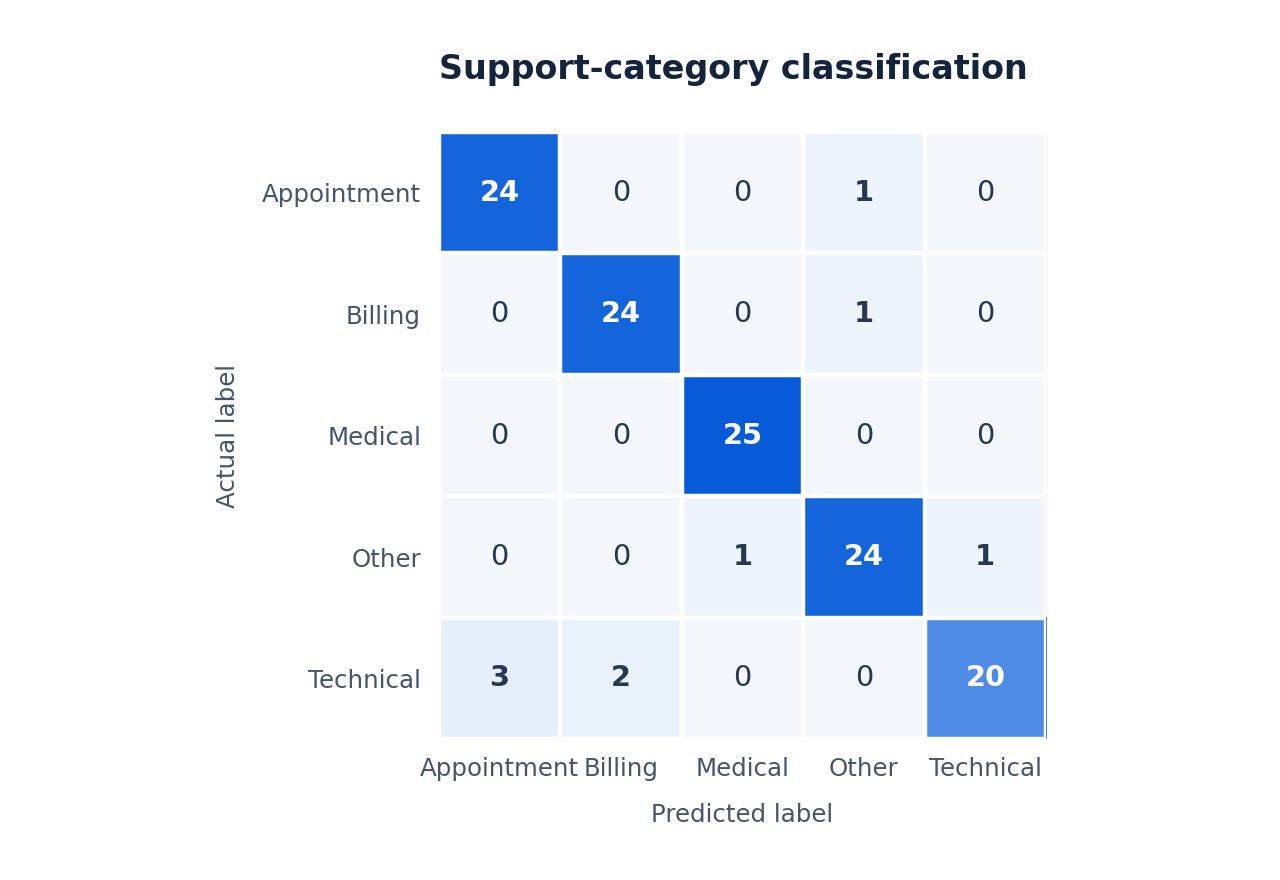
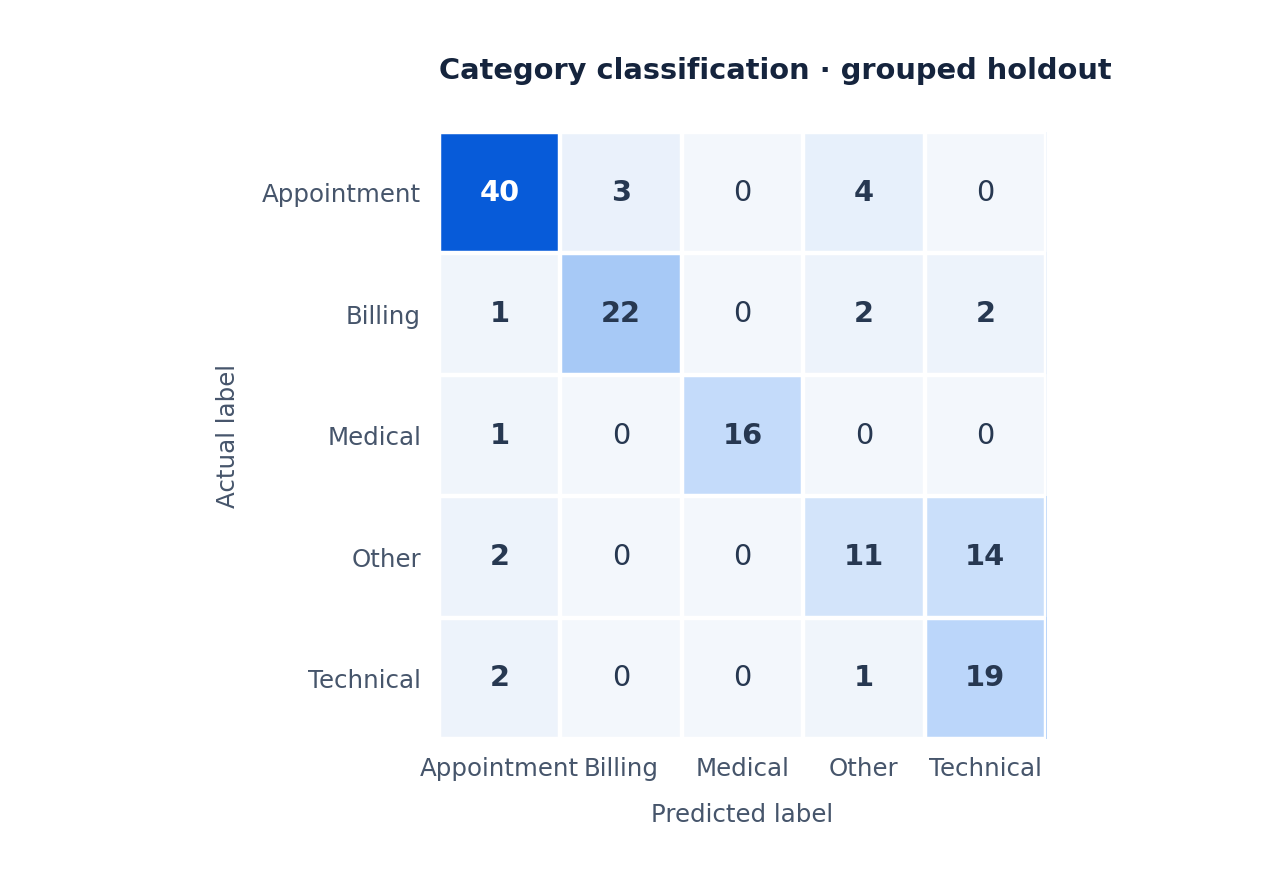
Publish corrected shared-holdout NLP results and API behaviour

diff --git a/diacare-nlp.html b/diacare-nlp.html
@@ -37,32 +37,33 @@
       <section class="report-section" aria-labelledby="approach">
         <h2 id="approach"><span class="section-number" aria-hidden="true">02</span>How I built it</h2>
         <ol class="approach-list">
-          <li><strong>Represent the message text.</strong> Convert words and two-word phrases into TF-IDF features, capped at 20,000. Keep the vectoriser inside each model pipeline so outer cross-validation folds fit their own vocabulary.</li>
-          <li><strong>Learn category and priority separately.</strong> Train linear SVM classifiers with sigmoid probability calibration; apply balanced class weights to priority. Each target uses its own stratified 20% holdout and five-fold cross-validation on its remaining training pool, with seed 42.</li>
-          <li><strong>Expose a reviewable response.</strong> Check a short list of keyword patterns before model inference. A match returns category “medical” and priority 5; otherwise, the API returns both model predictions and indicative terms. A health endpoint reports whether the model artifacts loaded.</li>
+          <li><strong>Represent the message text.</strong> Convert words and two-word phrases into TF-IDF features, capped at 20,000. Each classifier uses a pipeline that learns its TF-IDF vocabulary within the training folds, preventing vocabulary leakage into the held-out folds.</li>
+          <li><strong>Learn category and priority separately.</strong> Train linear SVM classifiers with balanced priority weights. Group duplicate and related messages into 84 reviewed families, then reserve one shared holdout of 140 messages from 17 families. Train on the remaining 490 messages from 67 families; fit sigmoid calibration using three family-disjoint training folds.</li>
+          <li><strong>Expose a reviewable response.</strong> Check a short list of keyword patterns before model inference. A match returns category “medical” and priority 5; otherwise, the API returns both model predictions and indicative terms. A readiness endpoint returns HTTP 503 if either model is unavailable.</li>
         </ol>
         <h3 class="report-subheading">Engineering decisions</h3>
         <p>Separate classifiers let topic and priority be evaluated independently instead of assuming that a message’s subject determines its urgency. The keyword override is visible in the response through a <code>gate_triggered</code> field, so a reviewer can distinguish a rule match from model output.</p>
-        <p>Model loading is checked separately from the service being reachable: the health response includes <code>models_loaded</code>, and requests without available models return an explicit error rather than a fabricated prediction. Indicative terms support inspection, while the full prediction and rule status remain available in the JSON response.</p>
+        <p>Process liveness and readiness are separate: <code>/health</code> reports <code>models_loaded</code>, while <code>/ready</code> and prediction requests return HTTP 503 when models are unavailable. Model responses expose separate category and priority confidence fields; rule responses identify the matched phrases and leave both confidence fields empty.</p>
       </section>
       <section class="report-section" aria-labelledby="results">
         <h2 id="results"><span class="section-number" aria-hidden="true">03</span>Results</h2>
-        <p>The category model correctly labelled <strong>117 of 126 holdout messages (92.9%)</strong>; the priority model correctly labelled <strong>101 of 126 (80.2%)</strong> on its separately sampled holdout. These are individual model results, not the accuracy of getting both answers right on the same messages or of the combined keyword-and-model API.</p>
-        <p>Priority classification made more errors than category classification. Six of seven priority-5 examples were classified correctly, with one assigned priority 4; that small sample cannot establish reliable handling of rare urgent messages.</p>
-        <table class="results-table"><caption>Separate synthetic holdouts · 126 messages per target</caption><thead><tr><th scope="col">Measure</th><th scope="col">Category</th><th scope="col">Priority</th></tr></thead><tbody><tr><th scope="row">Correct labels</th><td>117 / 126</td><td>101 / 126</td></tr><tr><th scope="row">Macro F1</th><td>0.927</td><td>0.808</td></tr><tr><th scope="row">Accuracy</th><td>92.9%</td><td>80.2%</td></tr></tbody></table>
-        <figure class="report"><a href="nlp-assets/priority-confusion-matrix.png" aria-label="Enlarge priority classification confusion matrix"><img src="nlp-assets/priority-confusion-matrix.png" width="1280" height="880" alt="Priority model holdout confusion matrix: 16, 36, 29, 14 and 6 correct predictions for priorities 1 to 5, with one actual priority-5 message classified as priority 4" loading="lazy" decoding="async"></a><figcaption><h3>Figure 1. Priority classification errors</h3><p>Generated from the published evaluation counts. Rows are actual labels and columns are model predictions, before the API keyword override. Select the figure to enlarge.</p></figcaption></figure>
+        <p>On the corrected shared holdout, the models achieved <strong>77.1% category accuracy</strong> and <strong>55.0% priority accuracy</strong>. Both answers were correct on <strong>63 of 140 messages (45.0%)</strong>. The complete API, including keyword overrides, correctly returned both labels on <strong>65 of 140 (46.4%)</strong>.</p>
+        <p><strong>Evaluation correction.</strong> These results replace the preliminary 92.9% and 80.2% figures, whose separate holdouts each contained seven training-overlap messages. The new shared split keeps annotated families and normalised duplicate texts entirely separate.</p>
+        <p>The priority model correctly classified <strong>0 of 11 priority-5 messages</strong>; the API correctly classified <strong>2 of 11</strong>. Its two keyword matches fixed two joint errors on this holdout. These outcomes do not support dependable urgent-message handling.</p>
+        <table class="results-table"><caption>Corrected family-grouped holdout · same 140 messages for both systems</caption><thead><tr><th scope="col">Measure</th><th scope="col">Models only</th><th scope="col">Full API</th></tr></thead><tbody><tr><th scope="row">Category correct</th><td>108 / 140 · 77.1%</td><td>108 / 140 · 77.1%</td></tr><tr><th scope="row">Priority correct</th><td>77 / 140 · 55.0%</td><td>79 / 140 · 56.4%</td></tr><tr><th scope="row">Both labels correct</th><td>63 / 140 · 45.0%</td><td>65 / 140 · 46.4%</td></tr></tbody></table>
+        <figure class="report"><a href="nlp-assets/priority-confusion-matrix.png?v=grouped-2" aria-label="Enlarge priority classification confusion matrix"><img src="nlp-assets/priority-confusion-matrix.png?v=grouped-2" width="1280" height="880" alt="Grouped shared-holdout priority confusion matrix: 2, 53, 19, 3 and 0 correct predictions for priorities 1 to 5; ten priority-5 messages classified as priority 4 and one as priority 2" loading="lazy" decoding="async"></a><figcaption><h3>Figure 1. Priority classification errors</h3><p>Generated from the corrected grouped evaluation. Rows are actual labels; columns are model predictions before the keyword override. Select the figure to enlarge.</p></figcaption></figure>
         <details class="supporting-reports"><summary>Supporting evidence: category errors and API interpretation <span aria-hidden="true">+</span></summary><div class="supporting-content">
-          <figure class="report"><a href="nlp-assets/category-confusion-matrix.png" aria-label="Enlarge category classification confusion matrix"><img src="nlp-assets/category-confusion-matrix.png" width="1280" height="880" alt="Category model holdout confusion matrix: 24 appointment, 24 billing, 25 medical, 24 other and 20 technical-issue messages correctly classified" loading="lazy" decoding="async"></a><figcaption><h3>Figure 2. Support-category classification errors</h3><p>Technical-issue recall was 80%: 20 of 25 examples were correct, with three assigned appointment and two billing. This was the lowest category recall.</p></figcaption></figure>
-          <p class="technology-line">Macro F1 weights classes equally. Five-fold training-pool macro F1 was 0.934 ± 0.033 for category and 0.816 ± 0.022 for priority. These folds share the dataset’s synthetic wording and repetition limits.</p>
-          <p class="technology-line">The API confidence field takes the larger of the two models’ maximum probabilities; it is not joint confidence in both predictions. A keyword match returns a fixed 0.99, not a learned probability. Returned terms use coefficients from one calibrated ensemble member and are indicative, rather than a complete explanation of the ensemble output.</p>
+          <figure class="report"><a href="nlp-assets/category-confusion-matrix.png?v=grouped-2" aria-label="Enlarge category classification confusion matrix"><img src="nlp-assets/category-confusion-matrix.png?v=grouped-2" width="1280" height="880" alt="Grouped shared-holdout category confusion matrix: 40 appointment, 22 billing, 16 medical, 11 other and 19 technical-issue messages correctly classified" loading="lazy" decoding="async"></a><figcaption><h3>Figure 2. Category classification errors</h3><p>The “other” category had the lowest recall: 11 of 27 messages were correct; 14 were assigned technical issue and two appointment.</p></figcaption></figure>
+          <p class="technology-line">Macro F1 weights classes equally: model-only category macro F1 is 0.766 and priority macro F1 is 0.333. The complete API records 0.766 and 0.395 respectively. No new performance cross-validation score is reported; the three grouped folds are for fitting probability calibration.</p>
+          <p class="technology-line">The former maximum-of-two confidence field and fixed 0.99 rule confidence have been removed. Model responses now return <code>category_confidence</code> and <code>priority_confidence</code> separately. Keyword responses identify <code>prediction_source</code> and <code>rule_matches</code>, with both confidences set to null. Calibration alone does not establish probability reliability; that still needs its own evaluation. Indicative terms come from one ensemble member and do not fully explain the ensemble.</p>
         </div></details>
       </section>
       <section class="report-section data-notes" aria-labelledby="data-notes">
         <h2 id="data-notes"><span class="section-number" aria-hidden="true">04</span>Data, limitations &amp; next steps</h2>
-        <p>The category-balanced dataset contains no patient records. Its 630 rows include <strong>613 distinct texts after lowercasing and trimming</strong>; in each target’s split, seven holdout rows repeat text also present in training. The reported scores describe this synthetic experiment, rather than generalisation to unseen patient language or real support traffic.</p>
-        <p>The keyword gate covers a small set of phrases and does not establish clinical safety. This prototype is not a diagnostic or autonomous triage system, and its scores do not measure health outcomes or real-world routing quality.</p>
-        <p><strong>Takeaway &amp; next step.</strong> A service can expose clear predictions without having enough evidence to trust every routing decision. Next, I would group duplicate and paraphrased messages before splitting, evaluate category and priority together on a shared representative holdout, and test negation, unfamiliar wording, and rare high-priority cases with qualified reviewers.</p>
-        <p class="evidence-links">Technical evidence: <a href="https://github.com/Tansari2004/diacare-nlp/blob/main/train.py">training &amp; split implementation</a> · <a href="https://github.com/Tansari2004/diacare-nlp/blob/main/results/metrics.json">full metrics &amp; confusion matrices</a> · <a href="https://github.com/Tansari2004/diacare-nlp/blob/main/triage_api.py">API implementation</a> · <a href="https://github.com/Tansari2004/diacare-nlp/blob/main/tests/test_api.py">API tests</a> · <a href="https://github.com/Tansari2004/diacare-nlp/blob/main/data/DATASET_INFO.md">dataset notes</a>.</p>
+        <p>The category-balanced dataset contains 630 synthetic rows and no patient records. All rows have published family annotations, source hashes, and split assignments. The first fold of a five-fold grouped splitter with seed 42 was fixed before fitting, without searching for favourable scores. Families have unequal sizes, so the shared holdout contains 22.2% of rows. The intent-family annotations were prepared with coding-assistant support and await independent review; they are not proof that every paraphrase relationship has been captured.</p>
+        <p>The earlier independent row-level holdouts each included seven messages whose text also appeared in training. Those scores are archived and superseded. Both the split and calibration protocol have changed, so the lower scores cannot be attributed to duplicates alone. The current result remains one synthetic family-held-out experiment; the narrow keyword gate does not make it a validated clinical routing system.</p>
+        <p><strong>Takeaway &amp; next step.</strong> Grouping related messages revealed weak priority generalisation that the earlier experiment obscured. The immediate next step is an independent review of families and labels, followed by representative data and a fresh final test set before selecting improvements. Rare priorities, negation, unfamiliar wording, and confidence reliability need explicit evaluation with qualified reviewers. The current holdout will not be reused to tune the model or keyword rules.</p>
+        <p class="evidence-links">Technical evidence: <a href="https://github.com/Tansari2004/diacare-nlp/blob/main/results/evaluation_summary.md">corrected evaluation</a> · <a href="https://github.com/Tansari2004/diacare-nlp/blob/main/data/GROUPING_PROTOCOL.md">grouping protocol</a> · <a href="https://github.com/Tansari2004/diacare-nlp/blob/main/results/split_manifest.csv">split manifest</a> · <a href="https://github.com/Tansari2004/diacare-nlp/blob/main/results/holdout_predictions.csv">row-level predictions</a> · <a href="https://github.com/Tansari2004/diacare-nlp/blob/main/results/metrics.json">full metrics</a> · <a href="https://github.com/Tansari2004/diacare-nlp/blob/main/triage_api.py">API implementation</a>.</p>
       </section>
       <footer class="report-footer"><a href="https://github.com/Tansari2004/diacare-nlp">Explore the code ↗</a><a href="mailto:tansari7@uwo.ca">Discuss the project ↗</a><a href="./#work">Back to portfolio</a></footer>
     </main>
